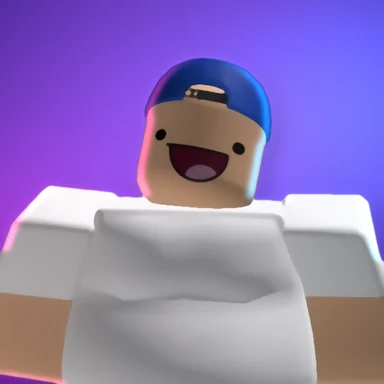
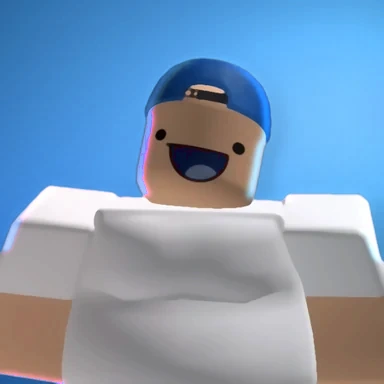
Tout en bleu (likes, carte, images), aucun flou, bas de page sur fond plein
Claude-Session: https://claude.ai/code/session_011h6tFCZTCZaYHU1Yi46pkU

diff --git a/index.html b/index.html
@@ -334,11 +334,11 @@ footer{font-family:var(--f-mono);font-size:11px;color:var(--muted);display:flex;
 .like-btn{width:48px;height:48px;border-radius:50%;border:2px solid var(--line-solid);background:var(--surface-2);display:grid;place-items:center;cursor:pointer;
   position:relative;z-index:1;transition:transform .25s cubic-bezier(.3,1.7,.5,1),border-color .2s,background .3s,box-shadow .3s}
 .like-btn svg{width:24px;height:24px;fill:none;stroke:var(--lilac);stroke-width:2;transition:fill .25s,stroke .25s,transform .3s cubic-bezier(.3,1.7,.5,1)}
-.like-btn:hover{transform:scale(1.08);border-color:#ff5ea8;box-shadow:0 0 18px -4px #ff5ea8}
+.like-btn:hover{transform:scale(1.08);border-color:#2fb4ff;box-shadow:0 0 18px -4px #2fb4ff}
 .like-btn:hover svg{transform:scale(1.08)}
 .like-btn:active{transform:scale(.9)}
 .like-btn:focus-visible{outline:2px solid var(--white);outline-offset:3px}
-.like-btn.on{background:linear-gradient(135deg,#ff5ea8,var(--accent));border-color:transparent;box-shadow:0 4px 0 var(--accent-deep),0 0 22px -4px #ff5ea8}
+.like-btn.on{background:linear-gradient(135deg,#2fb4ff,var(--accent));border-color:transparent;box-shadow:0 4px 0 var(--accent-deep),0 0 22px -4px #2fb4ff}
 .like-btn.on svg{fill:var(--white);stroke:var(--white)}
 .like-btn.pop{animation:likePop .6s cubic-bezier(.3,1.8,.4,1)}
 .like-btn.pop svg{animation:heartBeat .6s ease-out}
@@ -348,11 +348,11 @@ footer{font-family:var(--f-mono);font-size:11px;color:var(--muted);display:flex;
 @keyframes nope{20%{transform:translateX(-4px) rotate(-6deg)}40%{transform:translateX(4px) rotate(6deg)}60%{transform:translateX(-3px)}80%{transform:translateX(2px)}}
 .like .spark{position:absolute;left:50%;bottom:24px;width:7px;height:7px;margin:-3.5px;border-radius:50%;pointer-events:none;z-index:2;
   background:var(--lilac);animation:spark .8s cubic-bezier(.2,.8,.3,1) forwards}
-.like .spark:nth-child(2n){background:#ff5ea8}.like .spark:nth-child(5n){background:var(--white)}
-.like .spark.heart{width:12px;height:12px;margin:-6px;border-radius:0;background:#ff5ea8;
+.like .spark:nth-child(2n){background:#2fb4ff}.like .spark:nth-child(5n){background:var(--white)}
+.like .spark.heart{width:12px;height:12px;margin:-6px;border-radius:0;background:#2fb4ff;
   clip-path:path("M6 11S0 7.3 0 3.6C0 1.6 1.4 0 3.2 0 4.4 0 5.4.7 6 1.7 6.6.7 7.6 0 8.8 0 10.6 0 12 1.6 12 3.6 12 7.3 6 11 6 11z")}
 @keyframes spark{0%{transform:translate(0,0) scale(.3) rotate(0)}70%{opacity:1}100%{transform:translate(var(--dx),var(--dy)) scale(1) rotate(var(--rot));opacity:0}}
-.like .ring{position:absolute;left:50%;bottom:24px;width:48px;height:48px;margin:-24px;border-radius:50%;border:3px solid #ff5ea8;pointer-events:none;
+.like .ring{position:absolute;left:50%;bottom:24px;width:48px;height:48px;margin:-24px;border-radius:50%;border:3px solid #2fb4ff;pointer-events:none;
   animation:ring .6s ease-out forwards}
 @keyframes ring{from{transform:scale(.6);opacity:1}to{transform:scale(1.9);opacity:0;border-width:1px}}
 
@@ -376,8 +376,8 @@ footer{font-family:var(--f-mono);font-size:11px;color:var(--muted);display:flex;
 .folder:hover .thumbs img{transform:translateY(-2px) rotate(-4deg)}
 .folder:hover .thumbs img:nth-child(2){transform:translateY(-3px) rotate(3deg)}
 @media (max-width:380px){.folder .thumbs{display:none}}
-.st.beta{background:rgba(255,94,168,.18);color:#ffb3d6}
-.pj .shot .st.beta{background:rgba(5,13,26,.8);color:#ffb3d6}
+.st.beta{background:rgba(47,180,255,.18);color:#bfe6ff}
+.pj .shot .st.beta{background:rgba(5,13,26,.8);color:#bfe6ff}
 
 /* ===== Like : rond parfait ===== */
 .like-btn{padding:0;aspect-ratio:1;min-width:48px;min-height:48px;flex:none;overflow:visible}
@@ -470,7 +470,7 @@ main{padding-bottom:calc(96px + env(safe-area-inset-bottom,0px))}
 }
 /* ===== Merci ===== */
 .thanks{max-width:480px;width:100%;margin:2px 0 0;padding:12px 16px;border-radius:14px;text-align:center;font-size:14px;line-height:1.45;color:var(--ink);
-  background:linear-gradient(135deg,rgba(30,155,255,.18),rgba(255,94,168,.12));border:1px solid rgba(191,230,255,.25)}
+  background:linear-gradient(135deg,rgba(30,155,255,.18),rgba(47,180,255,.12));border:1px solid rgba(191,230,255,.25)}
 .th-heart{display:inline-block;margin-right:6px;animation:thBeat 1.6s ease-in-out infinite}
 @keyframes thBeat{0%,60%,100%{transform:scale(1)}20%{transform:scale(1.25)}40%{transform:scale(.95)}}
 /* ===== Images protégées (pas de glisser, d'enregistrer ni de menu « Enregistrer l'image ») ===== */
@@ -562,16 +562,16 @@ input,textarea,select{-webkit-user-select:text;user-select:text;-webkit-touch-ca
 /* ===== Like : bien visible ===== */
 .like-hint{position:absolute;right:-6px;bottom:calc(100% + 8px);z-index:3;white-space:nowrap;pointer-events:none;
   font-family:var(--f-mono);font-size:11px;font-weight:700;color:var(--accent-deep);background:var(--white);padding:6px 10px;border-radius:10px;
-  box-shadow:0 4px 0 #ff5ea8,0 10px 24px -8px rgba(255,94,168,.8);opacity:0;transform:translateY(6px) scale(.8);transform-origin:85% 100%}
+  box-shadow:0 4px 0 #2fb4ff,0 10px 24px -8px rgba(47,180,255,.8);opacity:0;transform:translateY(6px) scale(.8);transform-origin:85% 100%}
 .like-hint::after{content:"";position:absolute;right:22px;top:100%;border:7px solid transparent;border-top-color:var(--white)}
 .like.hint .like-hint{animation:hintIn .5s cubic-bezier(.3,1.6,.5,1) forwards,hintBob 1.6s .5s ease-in-out infinite}
 @keyframes hintIn{to{opacity:1;transform:none}}
 @keyframes hintBob{0%,100%{transform:none}50%{transform:translateY(-4px)}}
 .like.done .like-hint{animation:hintOut .25s ease forwards}
 @keyframes hintOut{from{opacity:1;transform:none}to{opacity:0;transform:translateY(-6px) scale(.8)}}
-.like-btn:not(.on){border-color:#ff5ea8;animation:likePulse 2s ease-out infinite}
-.like-btn:not(.on) svg{stroke:#ff8cc4;animation:likeBeat 2s ease-in-out infinite}
-@keyframes likePulse{0%{box-shadow:0 0 0 0 rgba(255,94,168,.65)}70%,100%{box-shadow:0 0 0 14px rgba(255,94,168,0)}}
+.like-btn:not(.on){border-color:#2fb4ff;animation:likePulse 2s ease-out infinite}
+.like-btn:not(.on) svg{stroke:#7fd3ff;animation:likeBeat 2s ease-in-out infinite}
+@keyframes likePulse{0%{box-shadow:0 0 0 0 rgba(47,180,255,.65)}70%,100%{box-shadow:0 0 0 14px rgba(47,180,255,0)}}
 @keyframes likeBeat{0%,40%,100%{transform:scale(1)}10%{transform:scale(1.22)}20%{transform:scale(.95)}30%{transform:scale(1.12)}}
 @media (max-width:440px){.like-hint{font-size:10px;padding:5px 8px}}
 /* ===== Easter egg : la carte ===== */
@@ -593,7 +593,7 @@ input,textarea,select{-webkit-user-select:text;user-select:text;-webkit-touch-ca
 .face.f-front{display:grid;place-items:center}
 .face.f-front img{width:100%;aspect-ratio:1;object-fit:cover;border-radius:22%;box-shadow:0 0 0 4px var(--surface),0 0 0 6px var(--accent),0 20px 50px rgba(0,0,0,.6)}
 .face.f-back{transform:rotateY(180deg);border-radius:4.6%/3.3%;overflow:hidden;padding:3.2%;
-  background:linear-gradient(135deg,#eaf6ff,#a8dcff 20%,#fff 35%,#ffc6ea 52%,#b7e6ff 70%,#e6f4ff 88%,#a8dcff);
+  background:linear-gradient(135deg,#eaf6ff,#a8dcff 20%,#fff 35%,#c6ecff 52%,#b7e6ff 70%,#e6f4ff 88%,#a8dcff);
   box-shadow:0 30px 80px -10px rgba(30,155,255,.8),0 0 0 1px rgba(255,255,255,.4)}
 .tc{position:relative;width:100%;height:100%;border-radius:3.4%/2.4%;overflow:hidden;color:#fff;font-family:var(--f-body);
   background:#06183a url(img/card-art.webp) center/cover no-repeat;container-type:inline-size}
@@ -611,7 +611,7 @@ input,textarea,select{-webkit-user-select:text;user-select:text;-webkit-touch-ca
 .tc-atk{display:grid;grid-template-columns:auto 1fr auto;gap:.6cqw 2.5cqw;align-items:center;padding:1.6cqw 0}
 .tc-atk + .tc-atk{border-top:1px solid rgba(255,255,255,.18)}
 .tc-cost{display:flex;gap:.8cqw}
-.tc-cost i{width:4.6cqw;height:4.6cqw;border-radius:50%;background:radial-gradient(circle at 35% 30%,#fff,#ff8cc4 60%,#d6338a);box-shadow:0 0 0 .4cqw rgba(255,255,255,.7)}
+.tc-cost i{width:4.6cqw;height:4.6cqw;border-radius:50%;background:radial-gradient(circle at 35% 30%,#fff,#7fd3ff 60%,#0b6fd6);box-shadow:0 0 0 .4cqw rgba(255,255,255,.7)}
 .tc-cost i.b{background:radial-gradient(circle at 35% 30%,#fff,#8fd8ff 60%,#2a8fd6)}
 .tc-atk b{font-size:4.6cqw;font-weight:700}
 .tc-dmg{font-family:var(--f-display);font-size:6cqw}
@@ -622,7 +622,7 @@ input,textarea,select{-webkit-user-select:text;user-select:text;-webkit-touch-ca
 /* reflets holographiques qui suivent la souris */
 .tc-holo,.tc-glare,.tc-spark{position:absolute;inset:0;pointer-events:none;border-radius:inherit}
 .tc-holo{mix-blend-mode:color-dodge;opacity:.2;
-  background:repeating-linear-gradient(115deg,#ff5ea8 0%,#ffd76a 6%,#7cffc4 12%,#5ec8ff 18%,#5cc2ff 24%,#ff5ea8 30%);
+  background:repeating-linear-gradient(115deg,#2fb4ff 0%,#ffffff 6%,#9fe8ff 12%,#5ec8ff 18%,#5cc2ff 24%,#2fb4ff 30%);
   background-size:300% 300%;background-position:var(--hx,50%) var(--hy,50%);animation:holoIdle 6s linear infinite}
 .egg.tilting .tc-holo{animation:none}
 @keyframes holoIdle{0%{background-position:0% 50%}100%{background-position:150% 50%}}
@@ -883,6 +883,16 @@ body.entered .hero-id{animation:slideIn .8s cubic-bezier(.2,.9,.2,1) both}
 .nav{background:rgba(4,12,26,.35);backdrop-filter:blur(8px);-webkit-backdrop-filter:blur(8px)}
 .menu a{color:rgba(255,255,255,.78)}
 @media (max-width:720px){.menu{justify-content:space-between}.menu a{font-size:12px;padding:6px 7px}}
+/* ===== Net : aucun flou ===== */
+*,*::before,*::after{backdrop-filter:none!important;-webkit-backdrop-filter:none!important}
+.nav{background:rgba(4,12,26,.82)}
+.nav.solid{background:rgba(4,12,26,.96)}
+.pcard{background:rgba(5,16,34,.9)}
+.hero .role{background:rgba(4,12,26,.85)}
+@keyframes swirlDrift{from{transform:translate(0,0)}to{transform:translate(-2%,1.5%)}}
+/* ===== Bas de page : fond plein, on ne voit plus le fond animé ===== */
+main.site{padding-bottom:0}
+.site-foot{position:relative;z-index:3;background:var(--bg);margin-top:60px;padding:26px 0 calc(96px + env(safe-area-inset-bottom,0px))}
 
 </style>
 <script>window.IS_TOUCH=matchMedia("(pointer:coarse)").matches||/Android|iPhone|iPad|iPod/i.test(navigator.userAgent);if(IS_TOUCH)document.documentElement.classList.add("touch")</script>
@@ -1617,7 +1627,7 @@ $("cform").addEventListener("submit",async e=>{
     for(let y=-24+off;y<H;y+=24)for(let x=12;x<W;x+=24){c.beginPath();c.arc(x,y,2.2,0,7);c.fill()}
     /* murs */
     for(const w of walls){
-      const col=w.hue?["#ff5ea8","#c2185b"]:["#1e9bff","#0b5fd6"];
+      const col=w.hue?["#2fb4ff","#0a4fb0"]:["#1e9bff","#0b5fd6"];
       for(const [x0,x1] of [[0,w.gx],[w.gx+w.g,W]]){if(x1-x0<2)continue;
         c.fillStyle=col[1];rr(x0,w.y+5,x1-x0,18,5);c.fill();
         c.fillStyle=col[0];rr(x0,w.y,x1-x0,18,5);c.fill();
@@ -1913,7 +1923,7 @@ function drawTrail(now,hx,hy,d){
   if(lastPt){travel+=Math.hypot(head.x-lastPt.x,head.y-lastPt.y);
     while(travel>46*d){travel-=46*d;const c=Math.random();
       STARS.push({x:head.x+(Math.random()-.5)*14*d,y:head.y+(Math.random()-.5)*14*d,vx:(Math.random()-.5)*.6*d,vy:(-.2-Math.random()*.5)*d,
-        r:(5+Math.random()*5)*d,rot:Math.random()*6,vr:(Math.random()-.5)*.12,t:now,c:c<.5?"#ffffff":c<.8?"#bfe6ff":"#ff9bd0"})}}
+        r:(5+Math.random()*5)*d,rot:Math.random()*6,vr:(Math.random()-.5)*.12,t:now,c:c<.5?"#ffffff":c<.8?"#bfe6ff":"#8fd8ff"})}}
   lastPt=head;
   /* étoiles : pop, rotation, petite chute, avec contour */
   for(let i=STARS.length-1;i>=0;i--){

diff --git a/api/_mail.js b/api/_mail.js
@@ -7,8 +7,8 @@ const LOGO = SITE + "/mail/logo.png";
 const esc = (s) => String(s ?? "").replace(/[&<>"']/g, (c) => ({ "&": "&amp;", "<": "&lt;", ">": "&gt;", '"': "&quot;", "'": "&#39;" }[c]));
 
 const BADGE = {
-  marque: { bg: "#efe6ff", fg: "#5b2ad1", icon: "🤝" },
-  createur: { bg: "#ffe6f2", fg: "#b0246b", icon: "🎬" },
+  marque: { bg: "#e6f4ff", fg: "#0b5fd6", icon: "🤝" },
+  createur: { bg: "#e6f4ff", fg: "#0a4fb0", icon: "🎬" },
   autre: { bg: "#eef0f4", fg: "#3d4250", icon: "💬" },
 };
 
@@ -26,34 +26,34 @@ export function buildMail(m, typeLabel) {
 <html lang="fr"><head><meta charset="utf-8"><meta name="viewport" content="width=device-width,initial-scale=1">
 <meta name="color-scheme" content="light dark"><meta name="supported-color-schemes" content="light dark">
 <title>Nouveau message</title></head>
-<body style="margin:0;padding:0;background:#f3f0fa;-webkit-text-size-adjust:100%;">
+<body style="margin:0;padding:0;background:#eef4fa;-webkit-text-size-adjust:100%;">
 <div style="display:none;max-height:0;overflow:hidden;opacity:0;color:transparent;">${esc(m.name)} : ${preview}</div>
-<table role="presentation" width="100%" cellpadding="0" cellspacing="0" style="background:#f3f0fa;">
+<table role="presentation" width="100%" cellpadding="0" cellspacing="0" style="background:#eef4fa;">
 <tr><td align="center" style="padding:28px 12px;">
   <table role="presentation" width="100%" cellpadding="0" cellspacing="0" style="max-width:600px;font-family:-apple-system,BlinkMacSystemFont,'Segoe UI',Roboto,Helvetica,Arial,sans-serif;">
 
     <!-- En-tête -->
-    <tr><td style="background:#2a1365;background-image:linear-gradient(135deg,#3b1690 0%,#5b2ad1 55%,#9b5cff 100%);border-radius:18px 18px 0 0;padding:24px 28px;">
+    <tr><td style="background:#2a1365;background-image:linear-gradient(135deg,#073c8f 0%,#0b5fd6 55%,#1e9bff 100%);border-radius:18px 18px 0 0;padding:24px 28px;">
       <table role="presentation" width="100%" cellpadding="0" cellspacing="0"><tr>
         <td width="52" valign="middle"><img src="${LOGO}" width="48" height="48" alt="D" style="display:block;border:0;border-radius:12px;"></td>
         <td valign="middle" style="padding-left:14px;">
           <div style="font-size:18px;font-weight:800;color:#ffffff;letter-spacing:.5px;">Dwenyx · Page</div>
-          <div style="font-size:13px;color:#d8c6ff;margin-top:2px;">Nouveau message depuis ton site</div>
+          <div style="font-size:13px;color:#bfe6ff;margin-top:2px;">Nouveau message depuis ton site</div>
         </td>
       </tr></table>
     </td></tr>
 
     <!-- Carte -->
-    <tr><td style="background:#ffffff;padding:28px;border-left:1px solid #e6e0f5;border-right:1px solid #e6e0f5;">
+    <tr><td style="background:#ffffff;padding:28px;border-left:1px solid #dcebf7;border-right:1px solid #dcebf7;">
 
       <!-- Expéditeur -->
-      <table role="presentation" width="100%" cellpadding="0" cellspacing="0" style="background:#f8f6fd;border:1px solid #ece6fa;border-radius:14px;">
+      <table role="presentation" width="100%" cellpadding="0" cellspacing="0" style="background:#f5f9fd;border:1px solid #e3effa;border-radius:14px;">
         <tr><td style="padding:16px 18px;">
           <table role="presentation" cellpadding="0" cellspacing="0"><tr>
-            <td width="44" valign="middle"><div style="width:44px;height:44px;line-height:44px;border-radius:50%;background:#9b5cff;color:#ffffff;font-size:19px;font-weight:800;text-align:center;">${initial}</div></td>
+            <td width="44" valign="middle"><div style="width:44px;height:44px;line-height:44px;border-radius:50%;background:#1e9bff;color:#ffffff;font-size:19px;font-weight:800;text-align:center;">${initial}</div></td>
             <td valign="middle" style="padding-left:12px;">
-              <div style="font-size:16px;font-weight:700;color:#1b1530;">${esc(m.name)}</div>
-              <a href="mailto:${esc(m.email)}" style="font-size:14px;color:#5b2ad1;text-decoration:none;">${esc(m.email)}</a>
+              <div style="font-size:16px;font-weight:700;color:#0f1d33;">${esc(m.name)}</div>
+              <a href="mailto:${esc(m.email)}" style="font-size:14px;color:#0b5fd6;text-decoration:none;">${esc(m.email)}</a>
             </td>
           </tr></table>
         </td></tr>
@@ -62,33 +62,33 @@ export function buildMail(m, typeLabel) {
       <!-- Détails -->
       <table role="presentation" width="100%" cellpadding="0" cellspacing="0" style="margin-top:18px;">
         <tr>
-          <td style="font-size:12px;color:#8a83a0;text-transform:uppercase;letter-spacing:.8px;padding-bottom:6px;">Sujet</td>
-          <td align="right" style="font-size:12px;color:#8a83a0;text-transform:uppercase;letter-spacing:.8px;padding-bottom:6px;">Reçu le</td>
+          <td style="font-size:12px;color:#8195ab;text-transform:uppercase;letter-spacing:.8px;padding-bottom:6px;">Sujet</td>
+          <td align="right" style="font-size:12px;color:#8195ab;text-transform:uppercase;letter-spacing:.8px;padding-bottom:6px;">Reçu le</td>
         </tr>
         <tr>
           <td style="padding-right:10px;"><span style="display:inline-block;white-space:nowrap;background:${b.bg};color:${b.fg};font-size:13px;font-weight:700;padding:5px 10px;border-radius:8px;">${esc(typeLabel)}</span></td>
-          <td align="right" style="font-size:13px;color:#3d3658;">${esc(when)}</td>
+          <td align="right" style="font-size:13px;color:#2b3d58;">${esc(when)}</td>
         </tr>
       </table>
 
       <!-- Message -->
-      <div style="font-size:12px;color:#8a83a0;text-transform:uppercase;letter-spacing:.8px;margin:22px 0 8px;">Message · ${words} mot${words > 1 ? "s" : ""}</div>
-      <div style="border-left:4px solid #9b5cff;background:#fbfaff;border-radius:0 12px 12px 0;padding:16px 18px;font-size:15px;line-height:1.6;color:#1b1530;word-break:break-word;">${body}</div>
+      <div style="font-size:12px;color:#8195ab;text-transform:uppercase;letter-spacing:.8px;margin:22px 0 8px;">Message · ${words} mot${words > 1 ? "s" : ""}</div>
+      <div style="border-left:4px solid #1e9bff;background:#f9fcff;border-radius:0 12px 12px 0;padding:16px 18px;font-size:15px;line-height:1.6;color:#0f1d33;word-break:break-word;">${body}</div>
 
       <!-- Bouton -->
       <table role="presentation" cellpadding="0" cellspacing="0" style="margin-top:24px;"><tr>
-        <td style="border-radius:12px;background:#9b5cff;box-shadow:0 4px 0 #5b2ad1;">
+        <td style="border-radius:12px;background:#1e9bff;box-shadow:0 4px 0 #0b5fd6;">
           <a href="${reply}" style="display:inline-block;padding:13px 22px;font-size:15px;font-weight:700;color:#ffffff;text-decoration:none;border-radius:12px;">Répondre à ${esc(m.name)} →</a>
         </td>
       </tr></table>
-      <div style="font-size:13px;color:#8a83a0;margin-top:12px;">Tu peux aussi cliquer sur « Répondre » dans ta messagerie : la réponse part directement à ${esc(m.email)}.</div>
+      <div style="font-size:13px;color:#8195ab;margin-top:12px;">Tu peux aussi cliquer sur « Répondre » dans ta messagerie : la réponse part directement à ${esc(m.email)}.</div>
     </td></tr>
 
     <!-- Pied -->
-    <tr><td style="background:#ffffff;border:1px solid #e6e0f5;border-top:1px solid #f0ecf8;border-radius:0 0 18px 18px;padding:16px 28px;">
+    <tr><td style="background:#ffffff;border:1px solid #dcebf7;border-top:1px solid #eaf2f9;border-radius:0 0 18px 18px;padding:16px 28px;">
       <table role="presentation" width="100%" cellpadding="0" cellspacing="0"><tr>
-        <td style="font-size:12px;color:#a49dba;">Envoyé via le formulaire de <a href="${SITE}" style="color:#5b2ad1;text-decoration:none;font-weight:700;">dwenyx.vercel.app</a></td>
-        <td align="right" style="font-size:12px;color:#a49dba;">💜 Dwenyx</td>
+        <td style="font-size:12px;color:#9aaec4;">Envoyé via le formulaire de <a href="${SITE}" style="color:#0b5fd6;text-decoration:none;font-weight:700;">dwenyx.vercel.app</a></td>
+        <td align="right" style="font-size:12px;color:#9aaec4;">💜 Dwenyx</td>
       </tr></table>
     </td></tr>
 
